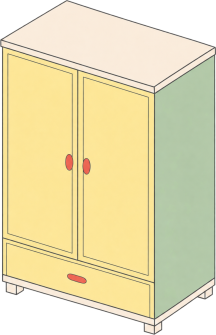
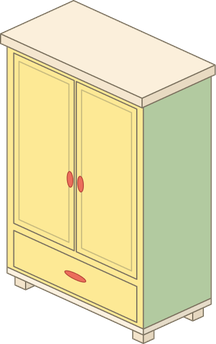
가구 그림 21개 넣기 (#53)
* 가구 그림 21개를 방 상자 크기에 맞춰 넣고, 그림에 맞춰 칸과 높이를 고치고, 1인 소파·냉장고·TV·게임기·디카·다이어리·탁상 조명·창문 가구를 목록에 더함

Claude-Session: https://claude.ai/code/session_017fHvKngZETvqKcn5s54kUM

* 새 가구 이름의 글자 7개(간, 냉, 넓, 발, 비, 조, 즈)를 첫 화면 작은 글꼴에 넣음: tools/ui_font.py로 다시 만듦

---------

Changed region(s): [[0.0, 0.0299, 1.0, 1.0], [0.25, 0.0, 0.4444, 0.0299]]

diff --git a/data/furniture.js b/data/furniture.js
@@ -13,27 +13,38 @@
 //          바탕화면에서 가구를 두 번 누르면 아바타가 옆으로 가서 쓴다. 없으면 아바타가 가구 이름을 말한다
 export const FURNITURE = [
   // 내 방: 바닥
-  { id: 'desk',      scene: 'room', name: '책상',     zone: 'floor', size: [3, 2], height: 56, surface: true, color: '#b08354' },
+  { id: 'desk',      scene: 'room', name: '책상',     zone: 'floor', size: [3, 2], height: 62, surface: true, color: '#ede8da' },
   { id: 'dining-table', scene: 'room', name: '식탁', zone: 'floor', size: [2, 2], height: 70, color: '#efe7cf' },
-  { id: 'bed',       scene: 'room', name: '침대',     zone: 'floor', size: [3, 4], height: 40, color: '#8fa9d6' },
+  { id: 'bed',       scene: 'room', name: '침대',     zone: 'floor', size: [3, 4], height: 68, color: '#c4b094' },
   { id: 'sofa',      scene: 'room', name: '소파',     zone: 'floor', size: [3, 2], height: 44, color: '#c9766a' },
-  { id: 'bookshelf', scene: 'room', name: '책장',     zone: 'floor', size: [2, 1], height: 124, color: '#9a6b44' },
-  { id: 'wardrobe',  scene: 'room', name: '옷장',     zone: 'floor', size: [2, 1], height: 114, color: '#d8c3a0' },
+  { id: 'bookshelf', scene: 'room', name: '책장',     zone: 'floor', size: [2, 1], height: 120, color: '#685447' },
+  { id: 'wardrobe',  scene: 'room', name: '옷장',     zone: 'floor', size: [2, 1], height: 118, color: '#e0d9a1' },
+  { id: 'armchair',  scene: 'room', name: '1인 소파', zone: 'floor', size: [2, 2], height: 71, color: '#cdc39e' },
+  { id: 'fridge',    scene: 'room', name: '냉장고',   zone: 'floor', size: [2, 1], height: 129, color: '#eddfd0' },
+  { id: 'lamp',      scene: 'room', name: '스탠드',   zone: 'floor', size: [1, 1], height: 120, color: '#d1be9a', light: true, gimmick: 'night' },
   { id: 'audio',     scene: 'room', name: '오디오',   zone: 'floor', size: [1, 1], height: 96, color: '#5b5b66' },
-  { id: 'big-plant', scene: 'room', name: '큰 화분',  zone: 'floor', size: [1, 1], height: 84, color: '#6fae6a' },
+  { id: 'big-plant', scene: 'room', name: '큰 화분',  zone: 'floor', size: [1, 1], height: 84, color: '#5c643b' },
   // 내 방: 책상 위 (바닥에도 놓을 수 있다)
-  { id: 'computer',  scene: 'room', name: '컴퓨터',   zone: 'top', size: [1, 1], height: 52, color: '#d9d4c7', gimmick: 'app:games' },
-  { id: 'lamp',      scene: 'room', name: '스탠드',   zone: 'top', size: [1, 1], height: 70, color: '#e8c35a', light: true, gimmick: 'night' },
+  { id: 'computer',  scene: 'room', name: '컴퓨터',   zone: 'top', size: [1, 1], height: 48, color: '#d7d3c8', gimmick: 'app:games' },
+  { id: 'tv',        scene: 'room', name: 'TV',       zone: 'top', size: [2, 1], height: 57, color: '#939d8a' },
+  { id: 'console',   scene: 'room', name: '게임기',   zone: 'top', size: [1, 1], height: 4, color: '#9f9498' },
+  { id: 'camera',    scene: 'room', name: '디카',     zone: 'top', size: [1, 1], height: 12, color: '#b6b6b2' },
+  { id: 'diary',     scene: 'room', name: '다이어리', zone: 'top', size: [1, 1], height: 4, color: '#af7570' },
+  { id: 'desk-lamp', scene: 'room', name: '초록 탁상 조명', zone: 'top', size: [1, 1], height: 29, color: '#6d825f', light: true, gimmick: 'night' },
+  { id: 'desk-lamp-2', scene: 'room', name: '빨간 탁상 조명', zone: 'top', size: [1, 1], height: 32, color: '#b84d32', light: true, gimmick: 'night' },
   { id: 'mug',       scene: 'room', name: '머그컵',   zone: 'top', size: [1, 1], height: 22, color: '#f2f0ea' },
   { id: 'plant',     scene: 'room', name: '작은 화분', zone: 'top', size: [1, 1], height: 34, color: '#8cc084' },
-  { id: 'books',     scene: 'room', name: '책 더미',  zone: 'top', size: [1, 1], height: 26, color: '#6b8fc9' },
+  { id: 'books',     scene: 'room', name: '책 더미',  zone: 'top', size: [1, 1], height: 11, color: '#b4b8a1' },
   { id: 'clock',     scene: 'room', name: '탁상시계', zone: 'top', size: [1, 1], height: 30, color: '#e07a5f' },
-  { id: 'radio',     scene: 'room', name: '카세트',   zone: 'top', size: [2, 1], height: 30, color: '#b5b8bd' },
+  { id: 'radio',     scene: 'room', name: '라디오',   zone: 'top', size: [2, 1], height: 30, color: '#e0dacc' },
   { id: 'fishbowl',  scene: 'room', name: '어항',     zone: 'top', size: [1, 1], height: 36, color: '#9fd8e8' },
   // 내 방: 벽
-  { id: 'window',    scene: 'room', name: '창문',     zone: 'wall', size: [3, 3], color: '#a9d6e5', gimmick: 'scene:playground' },
+  { id: 'window',    scene: 'room', name: '창문',     zone: 'wall', size: [3, 3], color: '#c2cec8', gimmick: 'scene:playground' },
+  { id: 'wide-window', scene: 'room', name: '넓은 창문', zone: 'wall', size: [4, 3], color: '#cdd6d1', gimmick: 'scene:playground' },
+  { id: 'beads-window', scene: 'room', name: '비즈 발 창문', zone: 'wall', size: [3, 3], color: '#a7bfba', gimmick: 'scene:playground' },
+  { id: 'wide-beads-window', scene: 'room', name: '비즈 발 넓은 창문', zone: 'wall', size: [4, 3], color: '#b1c6c1', gimmick: 'scene:playground' },
   { id: 'frame',     scene: 'room', name: '액자',     zone: 'wall', size: [2, 2], color: '#c97b6b' },
-  { id: 'poster',    scene: 'room', name: '포스터',   zone: 'wall', size: [2, 3], color: '#e8b84a' },
+  { id: 'poster',    scene: 'room', name: '포스터',   zone: 'wall', size: [2, 3], color: '#8e9490' },
   { id: 'wall-clock', scene: 'room', name: '벽시계',  zone: 'wall', size: [1, 1], color: '#f2e6cb' },
   // 놀이터
   { id: 'sandbox',   scene: 'playground', name: '모래 놀이터', zone: 'floor', size: [3, 3], height: 14, color: '#e3cf98' },

diff --git a/worklog/2026-11-10-wekgolichester-furniture-art.md b/worklog/2026-11-10-wekgolichester-furniture-art.md
@@ -1,0 +1,28 @@
+# 2026-11-10 가구 그림 21개 넣기 (wekgolichester)
+
+## 한 일
+가구 그림 담당이 그린 투명 PNG 22장을 방 상자 크기에 맞춰 `assets/furniture/`에 넣었다.
+그림이 있던 가구는 칸과 높이를 그림에 맞추고, 목록에 없던 가구(1인 소파, 냉장고, TV, 게임기, 디카, 다이어리, 탁상 조명 2개, 넓은 창문, 비즈 발 창문 2개)는 새로 더했다.
+
+## 바꾼 파일
+- `assets/furniture/*.png`: 새 그림 20장, 옷장 그림 바꿈. 모두 상자 크기의 2배
+- `data/furniture.js`: 새 가구 11줄, 그림에 맞춘 높이와 색, 스탠드를 바닥 가구로, 카세트 이름을 라디오로
+- `docs/tasks.md`: 가구 그림과 가구 목록 할 일의 진행 상태
+
+## 정한 것과 이유
+- 상자처럼 바닥을 꽉 채우는 가구(책상, 침대, 책장, 옷장, 1인 소파, 냉장고, TV)는 그림 가로를 상자 가로에 맞추고, 남는 세로로 높이를 정했다.
+  그림의 앞 꼭짓점이 칸 비율(가로 칸 ÷ 전체 칸)과 맞는지 보고 칸 수를 골랐다. 새 옷장 그림은 문이 넓은 면에 있어 이제 뒤집지 않는다.
+- 작은 물건(컴퓨터, 라디오, 책 더미, 게임기, 디카, 다이어리, 탁상 조명, 스탠드, 큰 화분)은 칸을 꽉 채우면 너무 커서,
+  물건 가로를 따로 정하고 밑면 가운데가 칸 가운데에 오도록 투명한 여백을 둔 그림으로 만들었다.
+- 벽 그림(창문, 비즈 발, 포스터 액자)은 오른쪽 벽 각도(약 26.8도)로 그려져 있어, 그대로 쓰면 사이트가 한 번 더 기울인다.
+  기울기를 되돌려 정면 그림으로 편 뒤 넣었다. 왼쪽 벽에 걸면 창틀 두께가 반대쪽에 보이지만 크게 어색하지 않다.
+- 벽 가구는 서로 겹칠 수 없어 비즈 발을 창문 위에 따로 걸 수 없다. 받은 비즈 발이 창문 두 개에 맞춰 그려져 있어서 창문과 합친 "비즈 발 창문"으로 넣었다.
+  창문 넷 모두 놀이터로 가는 기믹을 쓴다.
+- 탁상 조명 두 개는 스탠드처럼 밤과 낮을 바꾼다. 스탠드 조명 그림이 바닥에 서는 키 큰 조명이라 스탠드를 바닥 가구로 바꿨다.
+- 책상 높이가 56에서 62로 바뀌어 책상 위 물건이 6px 높게 놓인다.
+
+## 남은 일과 알아 둘 것
+- 기존 소파(3×2칸)와 액자, 머그컵, 탁상시계, 어항, 오디오, 벽시계, 놀이터 가구는 아직 그림이 없다. 코르크 보드는 목록에 없다.
+- 넓은 창문은 4×3칸이다. 그림 비율(1.56)이 칸 비율(1.33)보다 넓어 위쪽에 여백이 조금 남는다.
+- 새 가구 이름에 작은 글꼴(`assets/fonts/aga-ui.woff2`)에 없는 글자 7개가 있어 자동 점검이 경고한다. 원본 글꼴을 내려받지 못해 `tools/ui_font.py`를 돌리지 못했다.
+- 2010 시대 화면에서 가구를 모두 놓고 크롬으로 확인했다. 돌려 놓기와 1998 볼록 화면에서 누르기는 확인하지 못했다.

diff --git a/docs/tasks.md b/docs/tasks.md
@@ -12,8 +12,8 @@ F로 시작하는 번호는 `docs/requirements.md`의 요구 사항 번호이고
 | 팀원 GitHub 아이디를 받아 레포에 초대하기 | Admin | 끝 |
 | 10주차 수업활동으로 레포 주소 제출하기 | 정하는 중 | 할 일 |
 | 가구마다 생성형 이미지 만들어 두기 (F12) | 이미지 담당 | 할 일 |
-| 가구 그림을 배경 없는 PNG로 따기 (`assets/furniture/<id>.png`). 옷장과 식탁은 피그마 스케치에서 받아 넣음 | 가구 그림 담당 | 하는 중 |
-| 옷장과 식탁 그림을 방의 각도(2:1, 약 26.6도)에 맞추기. 지금 식탁 윗면은 약 30도이고, 옷장은 긴 면이 약 19도, 짧은 면이 약 31도 | 가구 그림 담당 | 할 일 |
+| 가구 그림을 배경 없는 PNG로 따기 (`assets/furniture/<id>.png`). 옷장과 식탁은 피그마 스케치에서 받아 넣음. 책상, 침대, 책장, 옷장, 1인 소파, 냉장고, TV, 스탠드, 탁상 조명 2개, 큰 화분, 컴퓨터, 라디오, 책 더미, 게임기, 디카, 다이어리, 창문 2개, 비즈 발, 포스터 액자 그림을 넣음(2026-11-10) | 가구 그림 담당 | 하는 중 |
+| 식탁 그림을 방의 각도(2:1, 약 26.6도)에 맞추기. 지금 식탁 윗면은 약 30도. 옷장은 2:1로 다시 그린 그림을 넣음(2026-11-10) | 가구 그림 담당 | 하는 중 |
 | 게임기, 라디오, 테이블 위의 책, 옷장, 디카, 다이어리의 인터랙션 구체화하기 (F12). 라디오, 책장(책 1~5권), 옷장, 책상 위 디카와 다이어리를 구체화함(2026-11-09), 게임기, 옷장, 디카, 다이어리를 더 구체화함(2026-11-10) | 인터랙션 담당 1 | 하는 중 |
 | 옛날 컴퓨터, TV, 책장, 비즈 발과 커튼, 냉장고, 화초, 포스터, 코르크 보드, 스탠드의 인터랙션 구체화하기 (F12) | 인터랙션 담당 2 | 할 일 |
 | 인터랙션마다 효과음과 배경음악 정하기 (F15). 사운드 정리표의 소리는 모두 정해짐(2026-11-09) | 사운드 담당 | 끝 |
@@ -43,7 +43,7 @@ F로 시작하는 번호는 `docs/requirements.md`의 요구 사항 번호이고
 
 | 할 일 | 담당 | 상태 |
 | --- | --- | --- |
-| 게임기, TV, 디카, 다이어리, 비즈 발이나 커튼, 냉장고, 코르크 보드를 가구 목록(`data/furniture.js`)에 넣기 | Admin | 기다림 |
+| 게임기, TV, 디카, 다이어리, 비즈 발이나 커튼, 냉장고, 코르크 보드를 가구 목록(`data/furniture.js`)에 넣기. 코르크 보드 말고는 그림과 함께 넣음(2026-11-10) | Admin | 기다림 |
 | 가구마다 구체화한 인터랙션 만들기 (F12) | Admin | 기다림 |
 | 컴퓨터 기믹을 미니게임 폴더에서 웹 게임 링크로 바꾸고, 미니게임은 게임기로 옮기기 (F7) | Admin | 기다림 |
 | 드라이브의 소리 파일 12개(합쳐서 약 85MB)를 mp3로 줄여 넣고 상황마다 틀기 (F15) | Admin | 끝 |
